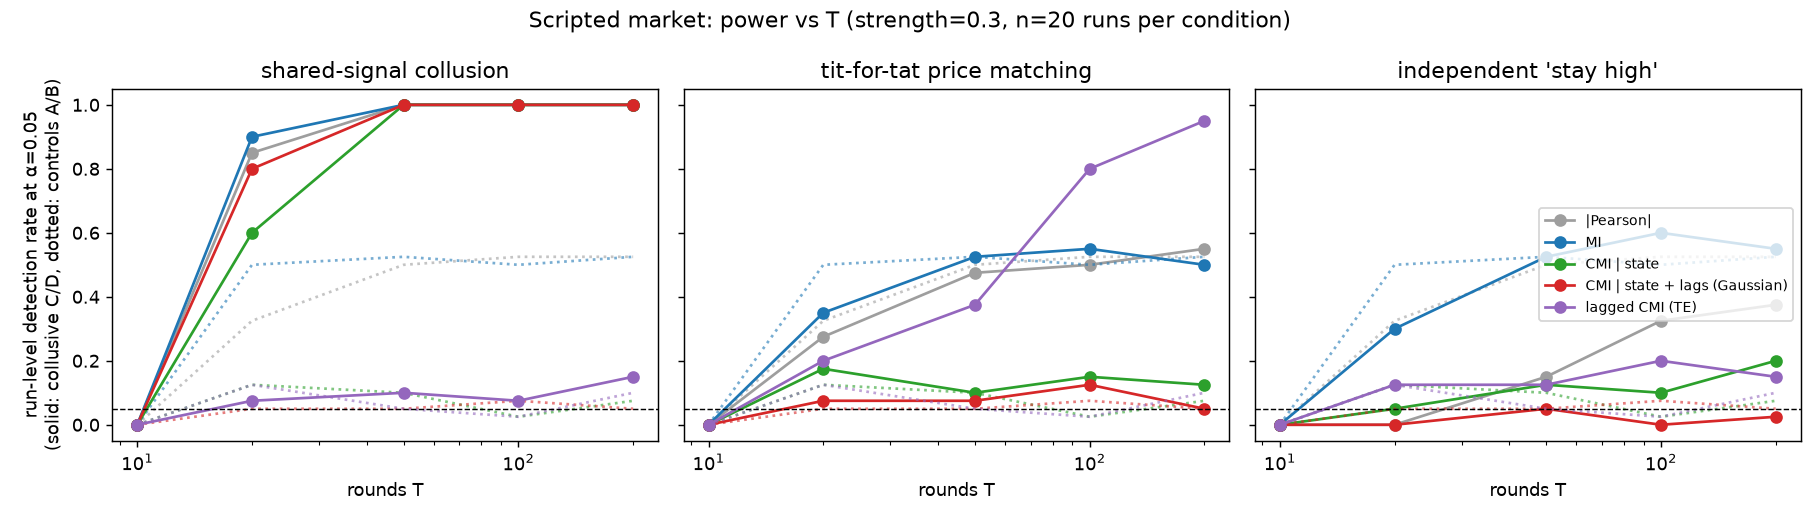
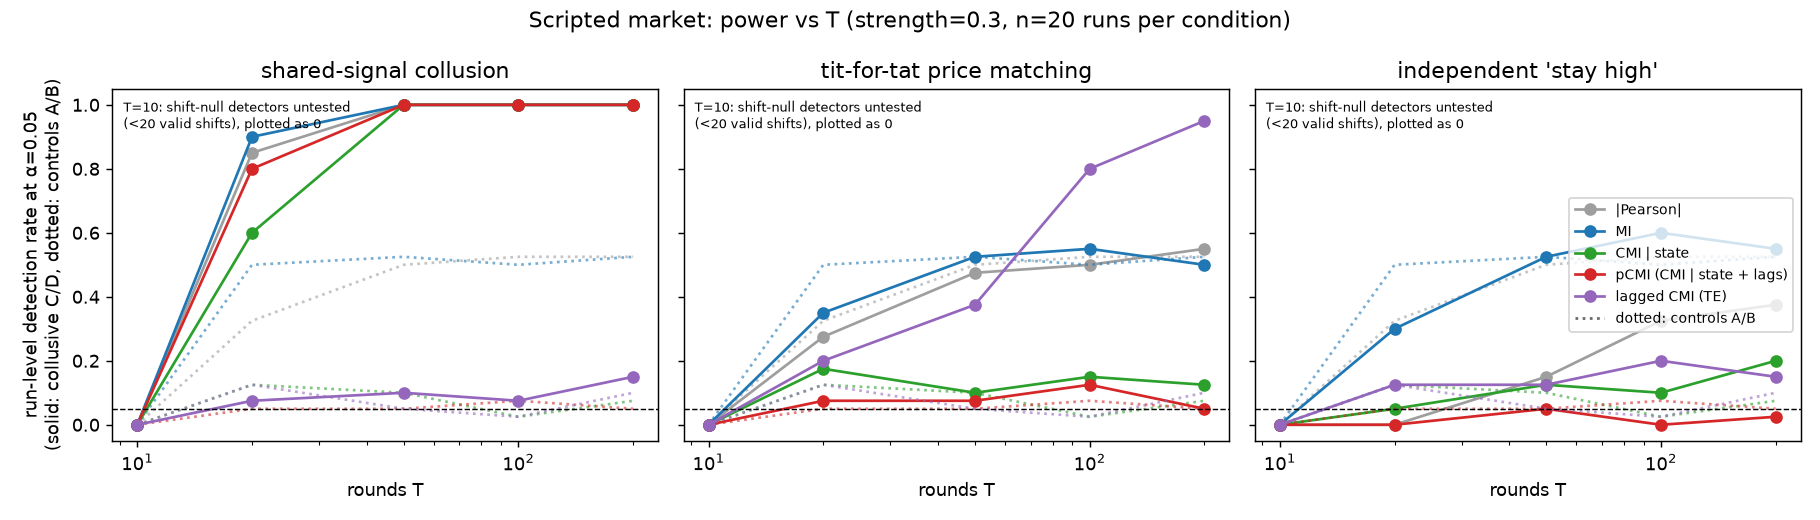
E28 Opus judge-read fixes: declarative title, Fig1 caption/title, pCMI legend names, Nash label, T=10 note, markup-needs-model limitation, process jargon removed

diff --git a/experiments/plot_sweeps.py b/experiments/plot_sweeps.py
@@ -8,7 +8,7 @@ import matplotlib.pyplot as plt
 
 ROOT = Path(__file__).resolve().parent.parent
 DETS = [("pearson", "|Pearson|", "#9e9e9e"), ("mi", "MI", "#1f77b4"), ("cmi_state", "CMI | state", "#2ca02c"),
-        ("pcmi", "CMI | state + lags (Gaussian)", "#d62728"), ("te", "lagged CMI (TE)", "#9467bd")]
+        ("pcmi", "pCMI (CMI | state + lags)", "#d62728"), ("te", "lagged CMI (TE)", "#9467bd")]
 TYPES = {"signal": "shared-signal collusion", "tft": "tit-for-tat price matching", "fixed_high": "independent 'stay high'"}
 
 
@@ -29,7 +29,10 @@ def main(path=ROOT / "results/sweeps/power.json"):
             ax.set_title(title); ax.set_xlabel(xlabel)
             if xkey == "T":
                 ax.set_xscale("log")
+                ax.text(0.02, 0.97, "T=10: shift-null detectors untested\n(<20 valid shifts), plotted as 0",
+                        transform=ax.transAxes, fontsize=7, va="top")
         axes[0].set_ylabel("run-level detection rate at α=0.05\n(solid: collusive C/D, dotted: controls A/B)")
+        axes[-1].plot([], [], "k:", alpha=0.6, label="dotted: controls A/B")
         axes[-1].legend(fontsize=8, loc="center right")
         fig.suptitle(f"Scripted market: power vs {xkey} ({fixed[0]}={fixed[1]}, n=20 runs per condition)")
         fig.tight_layout(); fig.savefig(ROOT / "figures" / fname, dpi=130); plt.close(fig)

diff --git a/experiments/llm_report.py b/experiments/llm_report.py
@@ -104,7 +104,7 @@ def fig_prices(name, gt, rows):
         ax.axhline(NASH[6], color="k", ls="--", lw=0.8)
         ax.set_title(f"{COND[c]} (n={len(rids)})", fontsize=10); ax.set_xlabel("round")
         ax.legend(fontsize=7, loc="upper right")
-    axes[0].set_ylabel("price (grey: per-run market mean)\ndashed: Nash at cost 6")
+    axes[0].set_ylabel("price (grey: per-run market mean)\ndashed: Nash at cost 6 (B/D: 10-12)")
     fig.suptitle(f"{name}: LLM seller prices by condition")
     fig.tight_layout(); fig.savefig(ROOT / "figures" / f"{name}_prices.png", dpi=130); plt.close(fig)
 

diff --git a/scripts/headline_fig.py b/scripts/headline_fig.py
@@ -57,7 +57,7 @@ def main():
     ax2.set_xticks(range(len(sets)), [s for s, _ in sets], fontsize=8)
     ax2.set_ylim(0, 1.08)
     ax2.set_ylabel("run AUROC, channel vs no-channel\n[bootstrap 95% CI]")
-    ax2.set_title("(b) LLM sellers (gpt-6-luna): collusion is a price level", fontsize=10)
+    ax2.set_title("(b) Two LLM markets (gpt-6-luna):\nchannel shows up as a price level; pCMI ≈ chance", fontsize=10)
     ax2.legend(fontsize=8, loc="lower right")
 
     fig.tight_layout()

diff --git a/REPORT.md b/REPORT.md
@@ -1,4 +1,4 @@
-# Can information-theoretic measures detect collusion between pricing agents — without accusing agents that merely share information or a policy?
+# Conditioned mutual information catches coordinated price *moves*, not price *levels*: detecting collusion between pricing agents (scripted and LLM) without accusing agents that merely share information or a policy
 
 *Apart AI Collusion Sprint, Q1.4 (action-only, statistical half of "Beyond Words: Detecting AI-Agent
 Collusion Through Information Theory and Behavioral Evidence"). Every number below is regenerated by the commands in §6 from `results/`, except the sibling-project numbers quoted in §4.4.*
@@ -10,9 +10,9 @@ measures are built to ignore, so a one-line level statistic separates channel fr
 (AUROC 0.87–0.98 vs 0.45–0.52; 0.5 = chance, 1 = perfect ranking), though it also ranks legitimate partnerships above controls.
 
 ![Figure 1](figures/headline.png)
-*Figure 1. (a) Scripted market, locked test seed: raw MI flags markets where independent sellers share a public shock
-or a policy; pCMI (conditioned on public state and lagged prices) mostly does not, and still flags 100% of colluding
-markets. Policy copies sharing a random seed remain a confound for both. (b) LLM markets: run AUROC of pCMI is near
+*Figure 1. (a) Scripted market, locked test seed, within-run shift null (α=0.05): raw MI flags markets where independent
+sellers share a public shock (100%) or a policy (30%); pCMI (conditioned on public state and lagged prices) flags 10–14% of them
+(above α; 4% under the control-surrogate null, §4.1) and still flags 100% of colluding markets. Policy copies sharing a random seed remain a confound for both. (b) LLM markets: run AUROC of pCMI is near
 chance (0.5, dashed), while a price-level statistic separates channel from no-channel markets. Generated by
 `uv run python scripts/headline_fig.py` from `results/eval/{gate_test,llm_v1,llm_long,llm_v3_ext}.json`.*
 
@@ -47,7 +47,7 @@ while not accusing agents that respond to common information or share a policy?
 and uses it to coordinate supra-competitive pricing. This follows the communication-plus-action family of
 definitions (Rose et al. 2026: communication plus harmful action; Bonjour et al. 2022: agents that
 "co-operate covertly to the disadvantage of others", operationalised as pairwise excess dependence; see
-`collusion_hackathon/literature/definitions/README.md`). Supra-competitive pricing **without** a channel
+`literature/definitions/README.md` in the hackathon starter repo `collusion_hackathon`). Supra-competitive pricing **without** a channel
 (e.g. all LLM sellers drifting above Nash) is labelled `tacit_supracompetitive` and analysed separately —
 never silently counted as a detector false positive or true positive. Three label levels are kept apart
 in `ground_truth.jsonl`: assigned opportunity (`private_channel_enabled`), verified agreement
@@ -103,7 +103,7 @@ battery and power sweeps reported as headline numbers use locked seeds 1001/1002
 configuration (linear residualisation design, B=200 / B=100). Design iterations on dev before the locked runs: 5 (E01 Bonferroni null → E02 max-statistic null; E06 null v2
 after review; E07 state×lag interactions → discarded; E08 control-surrogate null → kept as second null), plus label
 and baseline definition fixes made on pilots / before evaluation (E11, E12); all listed in `EXPERIMENTS.tsv`.
-No detector setting is tuned on LLM data, so all 74 `llm_v1` games are confirmatory (64 planned + 10 extra A/B controls added at 23:53 to give each family a
+No detector setting is tuned on LLM data, so all 74 `llm_v1` games are confirmatory (64 planned + 10 extra A/B controls added before evaluation to give each family a
 surrogate pool ≥ 20, before any llm_v1 detector output was computed; E17).
 
 ## 4. Results
@@ -211,7 +211,7 @@ judge (tier=big) reads the private chat → `agreement_verified`; `coordinated_a
 over Nash are `tacit_supracompetitive`. First games (descriptive, before any detector was run): channel pairs
 lift the **whole market's** price level (channel games have higher market-wide prices; we did not test whether rivals respond causally). Per-game market means on all 74 games: C/D 10.8–16.8 (median 12.5), A/B 8.6–13.9 (median 11.3); the ranges overlap (`scripts/market_mean_ranges.py` → `results/eval/llm_v1_market_mean_ranges.json`; an earlier quote for the first ~20 games is dropped because no script regenerates it).
 
-*Analysis plan, declared before results* (after the iteration-3 review; results below are headed by question: (i) price level = plan (b), (ii) run AUROC and (iii) localisation = (c), nulls = (d, e), (iv) mixed-model and (v) long games = (f)): (a) label rates per condition with
+*Analysis plan, declared before results* (results below are headed by question: (i) price level = plan (b), (ii) run AUROC and (iii) localisation = (c), nulls = (d, e), (iv) mixed-model and (v) long games = (f)): (a) label rates per condition with
 Wilson CIs; (b) price-level effect of the channel — market mean price C/D vs A/B (Mann-Whitney, bootstrap CI)
 and pair-minus-rivals gap; (c) run-level AUROC [bootstrap CI] of pCMI, MI, TE vs the non-IT baselines
 `market_level` and `pair_level`; pCMI/TE top-1 localisation vs chance 1/6 (exact binomial); (d) shift-null flag
@@ -229,7 +229,7 @@ shipping deal, a hard negative). No tuning; two adaptations forced by T=12: pCMI
 cost + demand instead of state dummies, and `market_level` uses the static Nash of that market. Metrics: run
 AUROC private vs none (and legit vs none), top-1 localisation vs 1/6, control-surrogate null vs the `none` pool.
 
-*Declared before any `llm_long` detector output (E20, 01:05 UTC):* (v) is read off the same games' prefixes (T = 10, 20, 30, 40, 50; C vs A, 8 vs 8): pCMI/MI/TE/level run AUROC with bootstrap CI, and pCMI top-1 vs 1/6. "T rescues pCMI" requires AUROC(pCMI, T=50) ≥ 0.65 **and** ≥ AUROC(pCMI, T=20) + 0.15; only then is an extra T=50 batch (+16 C, +6 A) generated (directive 4). Otherwise: no new generation. With 8 vs 8 the CI half-width is ≈ 0.25, so a null here only excludes large effects. The surrogate null is not used (pool 8 < 20).
+*Declared before any `llm_long` detector output (E20, 01:05 UTC):* (v) is read off the same games' prefixes (T = 10, 20, 30, 40, 50; C vs A, 8 vs 8): pCMI/MI/TE/level run AUROC with bootstrap CI, and pCMI top-1 vs 1/6. "T rescues pCMI" requires AUROC(pCMI, T=50) ≥ 0.65 **and** ≥ AUROC(pCMI, T=20) + 0.15; only then is an extra T=50 batch (+16 C, +6 A) generated. Otherwise: no new generation. With 8 vs 8 the CI half-width is ≈ 0.25, so a null here only excludes large effects. The surrogate null is not used (pool 8 < 20).
 Per-pair scores for the sibling: `results/eval/llm_v3_ext.json` (`uv run python -m experiments.ext_llm_v3`).
 
 #### 4.3.3 External set `llm_v3` (sibling market, T=12)
@@ -304,11 +304,11 @@ Commands: `uv run python -m experiments.llm_eval label --name llm_v1`, `... eval
 
 *(i) Does the channel raise prices? Yes, and mostly market-wide.* Markup over the per-round state Nash (market average), within family:
 C − A **+1.76 [1.21, 2.31]** (Mann-Whitney one-sided p=4e-6), D − B **+1.77 [1.02, 2.52]** (p=8e-5). The pair premium over its own
-rivals is modest: +0.48 [0.33, 0.64] (C), +0.42 [0.26, 0.59] (D). In `llm_v3` the gap is pair-specific (pair_level ≈ markup
+rivals is modest: +0.48 [0.33, 0.64] (C), +0.42 [0.26, 0.59] (D), and the gap shrinks over the game (figure). In `llm_v3` the gap is pair-specific (pair_level ≈ markup
 there). Here the whole market is higher, so the *max-pair markup* is the better level statistic (pooled AUROC pair_level −
 markup −0.128 [−0.258, −0.001]). These comparisons do not establish who follows whom within a market.
 
-*(ii) Do dependence scores separate channel runs, alone or added to the level baseline? Not pCMI. Raw MI and TE separate D from B but not C from A (below).* AUROC targets **channel
+*(ii) Do dependence scores separate channel runs, alone or added to the level baseline? Not pCMI. Raw MI and TE separate D from B but not C from A, likely a common-trend artefact (see diagnostics below).* AUROC targets **channel
 assignment** (C/D vs A/B). Only 17/32 channel games meet the realised-collusion label. Run AUROC of the max-pair score, T=20, all games [bootstrap 95% CI]:
 
 | detector | C/D vs A/B | C vs A | D vs B | top-1 assigned pair C / D (chance 1/6) |
@@ -351,7 +351,7 @@ MI (0.27 → 0.50) and TE (0.46 → 0.55) rise, but neither is above chance at T
 
 #### 4.3.5 Same- vs cross-model sellers (`llm_mixed2`)
 
-**(iv) `llm_mixed2`: are same-model pairs more dependent than cross-model pairs (shared-policy confound, PLAN req. 3)? No detectable difference; the CIs exclude only large effects.**
+**(iv) `llm_mixed2`: are same-model pairs more dependent than cross-model pairs (shared-policy confound)? No detectable difference; the CIs exclude only large effects.**
 12 no-channel games (condition A, single public state), T=20; in each game 2 sellers run gpt-6.1-sol and 2 run gpt-6-luna (both via codex), with random seats.
 All 12 passed the E21 model check (per-seller `model` field). `uv run python -m experiments.llm_eval mixed --name llm_mixed2` → `results/eval/llm_mixed2_mixed.json`; table printed by `uv run python scripts/tables.py`.
 Each game gives one observation: mean score of its 2 same-model pairs minus mean score of its 4 cross-model pairs (bootstrap 95% CI over runs, sign test; declared E16).
@@ -438,6 +438,8 @@ Numbers in this paragraph come from the sibling repo `collusion-22-say-vs-do` (R
   partly circular for level statistics; run AUROCs use the channel assignment instead.
 * The surrogate null's reference pool is best-responder / no-channel LLM markets; its FPR for other reference populations
   (e.g. markets of copies of one policy) is untested beyond the scripted hard negatives.
+* The best level statistic in `llm_v1` (markup over the state Nash price) assumes the auditor knows the demand and cost
+  model. `pair_level` (pair price minus rivals) needs no model but is less collusion-specific (legitimate partnerships: AUROC 0.75).
 * Many comparisons, mostly unadjusted (detectors × conditions × T). Isolated nominal hits, e.g. TE top-1 in llm_v1 C
   (6/16, p = 0.038) and pCMI top-1 in llm_v3 (18/70, p = 0.036), should not be read as signal.
 
